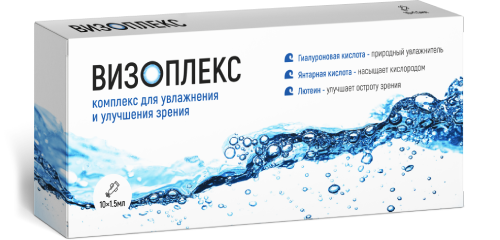
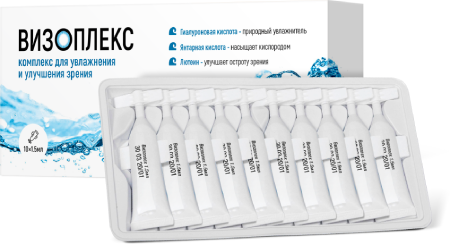
add photos

diff --git a/www/en/index.html b/www/en/index.html
@@ -1575,10 +1575,10 @@
       <div class="container">
         <h2 class="about__title title">О компании</h2><img class="about__logo" src="/img/svg/logo_big.svg" alt="Vitaliss"/>
         <div class="about__desc">
-          <p class="about__text">Наша миссия -  создавать товары для помощи людям в решении проблем со здоровьем. Это натуральные продукты, безопасность и качество которых проверяются на всех этапах производства* <br/>(*учитывайте индивидуальные особенности организма к конкретным ингредиентам).</p>
+          <p class="about__text">Наша миссия -  создавать товары для помощи людям в решении проблем со здоровьем. Это натуральные продукты, безопасность и качество которых проверяются на всех этапах производства*<br/>(*учитывайте индивидуальные особенности организма к конкретным ингредиентам).</p>
           <p class="about__text">Силы природы, научные инновации и знания лучших специалистов позволяют нам достигнуть максимального эффекта и пользы. Производим продукцию на современном оборудовании в соответствии с мировыми стандартами качества.</p>
           <p class="about__text">Мы гордимся тем, что с помощью продукции Vitaliss каждый день тысячи людей укрепляют свое здоровье и меняют жизнь к лучшему!</p>
-          <p class="about__text about__text--main">Мы заботимся о вас! С любовью, Vitaliss.</p>
+          <p class="about__text about__text--main">Мы заботимся о вас! С любовью, Vitaliss</p>
         </div>
       </div>
     </section>

diff --git a/www/index.html b/www/index.html
@@ -1575,10 +1575,10 @@
       <div class="container">
         <h2 class="about__title title">О компании</h2><img class="about__logo" src="/img/svg/logo_big.svg" alt="Vitaliss"/>
         <div class="about__desc">
-          <p class="about__text">Наша миссия -  создавать товары для помощи людям в решении проблем со здоровьем. Это натуральные продукты, безопасность и качество которых проверяются на всех этапах производства* <br/>(*учитывайте индивидуальные особенности организма к конкретным ингредиентам).</p>
+          <p class="about__text">Наша миссия -  создавать товары для помощи людям в решении проблем со здоровьем. Это натуральные продукты, безопасность и качество которых проверяются на всех этапах производства*<br/>(*учитывайте индивидуальные особенности организма к конкретным ингредиентам).</p>
           <p class="about__text">Силы природы, научные инновации и знания лучших специалистов позволяют нам достигнуть максимального эффекта и пользы. Производим продукцию на современном оборудовании в соответствии с мировыми стандартами качества.</p>
           <p class="about__text">Мы гордимся тем, что с помощью продукции Vitaliss каждый день тысячи людей укрепляют свое здоровье и меняют жизнь к лучшему!</p>
-          <p class="about__text about__text--main">Мы заботимся о вас! С любовью, Vitaliss.</p>
+          <p class="about__text about__text--main">Мы заботимся о вас! С любовью, Vitaliss</p>
         </div>
       </div>
     </section>

diff --git a/www/duo-c-p.html b/www/duo-c-p.html
@@ -51,13 +51,13 @@
           <div class="product-item__slider slider-prod">
             <div class="slider-prod__nav js-slider-product-nav">
               <div class="slider-prod__nav-item"><img src="/img/duo-c-p_b_1.png" alt="DUO C&amp;P"/></div>
-              <div class="slider-prod__nav-item"><img src="/img/duo-c-p_b_1.png" alt="DUO C&amp;P"/></div>
-              <div class="slider-prod__nav-item"><img src="/img/duo-c-p_b_1.png" alt="DUO C&amp;P"/></div>
+              <div class="slider-prod__nav-item"><img src="/img/duo-c-p_b_2.png" alt="DUO C&amp;P"/></div>
+              <div class="slider-prod__nav-item"><img src="/img/duo-c-p_b_3.png" alt="DUO C&amp;P"/></div>
             </div>
             <div class="slider-prod__for js-slider-product-for">
               <div class="slider-prod__for-item"><img src="/img/duo-c-p_b_1.png" alt="DUO C&amp;P"/></div>
-              <div class="slider-prod__for-item"><img src="/img/duo-c-p_b_1.png" alt="DUO C&amp;P"/></div>
-              <div class="slider-prod__for-item"><img src="/img/duo-c-p_b_1.png" alt="DUO C&amp;P"/></div>
+              <div class="slider-prod__for-item"><img src="/img/duo-c-p_b_2.png" alt="DUO C&amp;P"/></div>
+              <div class="slider-prod__for-item"><img src="/img/duo-c-p_b_3.png" alt="DUO C&amp;P"/></div>
             </div>
           </div>
           <div class="product-item__info">

diff --git a/www/en/duo-c-p.html b/www/en/duo-c-p.html
@@ -51,13 +51,13 @@
           <div class="product-item__slider slider-prod">
             <div class="slider-prod__nav js-slider-product-nav">
               <div class="slider-prod__nav-item"><img src="/img/duo-c-p_b_1.png" alt="DUO C&amp;P"/></div>
-              <div class="slider-prod__nav-item"><img src="/img/duo-c-p_b_1.png" alt="DUO C&amp;P"/></div>
-              <div class="slider-prod__nav-item"><img src="/img/duo-c-p_b_1.png" alt="DUO C&amp;P"/></div>
+              <div class="slider-prod__nav-item"><img src="/img/duo-c-p_b_2.png" alt="DUO C&amp;P"/></div>
+              <div class="slider-prod__nav-item"><img src="/img/duo-c-p_b_3.png" alt="DUO C&amp;P"/></div>
             </div>
             <div class="slider-prod__for js-slider-product-for">
               <div class="slider-prod__for-item"><img src="/img/duo-c-p_b_1.png" alt="DUO C&amp;P"/></div>
-              <div class="slider-prod__for-item"><img src="/img/duo-c-p_b_1.png" alt="DUO C&amp;P"/></div>
-              <div class="slider-prod__for-item"><img src="/img/duo-c-p_b_1.png" alt="DUO C&amp;P"/></div>
+              <div class="slider-prod__for-item"><img src="/img/duo-c-p_b_2.png" alt="DUO C&amp;P"/></div>
+              <div class="slider-prod__for-item"><img src="/img/duo-c-p_b_3.png" alt="DUO C&amp;P"/></div>
             </div>
           </div>
           <div class="product-item__info">

diff --git a/www/en/visoplex.html b/www/en/visoplex.html
@@ -51,13 +51,13 @@
           <div class="product-item__slider slider-prod">
             <div class="slider-prod__nav js-slider-product-nav">
               <div class="slider-prod__nav-item"><img src="/img/visolpex_b_1.png" alt="Visolpex"/></div>
-              <div class="slider-prod__nav-item"><img src="/img/visolpex_b_1.png" alt="Visolpex"/></div>
-              <div class="slider-prod__nav-item"><img src="/img/visolpex_b_1.png" alt="Visolpex"/></div>
+              <div class="slider-prod__nav-item"><img src="/img/visolpex_b_2.png" alt="Visolpex"/></div>
+              <div class="slider-prod__nav-item"><img src="/img/visolpex_b_3.png" alt="Visolpex"/></div>
             </div>
             <div class="slider-prod__for js-slider-product-for">
               <div class="slider-prod__for-item"><img src="/img/visolpex_b_1.png" alt="Visolpex"/></div>
-              <div class="slider-prod__for-item"><img src="/img/visolpex_b_1.png" alt="Visolpex"/></div>
-              <div class="slider-prod__for-item"><img src="/img/visolpex_b_1.png" alt="Visolpex"/></div>
+              <div class="slider-prod__for-item"><img src="/img/visolpex_b_2.png" alt="Visolpex"/></div>
+              <div class="slider-prod__for-item"><img src="/img/visolpex_b_3.png" alt="Visolpex"/></div>
             </div>
           </div>
           <div class="product-item__info">

diff --git a/www/visoplex.html b/www/visoplex.html
@@ -51,13 +51,13 @@
           <div class="product-item__slider slider-prod">
             <div class="slider-prod__nav js-slider-product-nav">
               <div class="slider-prod__nav-item"><img src="/img/visolpex_b_1.png" alt="Visolpex"/></div>
-              <div class="slider-prod__nav-item"><img src="/img/visolpex_b_1.png" alt="Visolpex"/></div>
-              <div class="slider-prod__nav-item"><img src="/img/visolpex_b_1.png" alt="Visolpex"/></div>
+              <div class="slider-prod__nav-item"><img src="/img/visolpex_b_2.png" alt="Visolpex"/></div>
+              <div class="slider-prod__nav-item"><img src="/img/visolpex_b_3.png" alt="Visolpex"/></div>
             </div>
             <div class="slider-prod__for js-slider-product-for">
               <div class="slider-prod__for-item"><img src="/img/visolpex_b_1.png" alt="Visolpex"/></div>
-              <div class="slider-prod__for-item"><img src="/img/visolpex_b_1.png" alt="Visolpex"/></div>
-              <div class="slider-prod__for-item"><img src="/img/visolpex_b_1.png" alt="Visolpex"/></div>
+              <div class="slider-prod__for-item"><img src="/img/visolpex_b_2.png" alt="Visolpex"/></div>
+              <div class="slider-prod__for-item"><img src="/img/visolpex_b_3.png" alt="Visolpex"/></div>
             </div>
           </div>
           <div class="product-item__info">

diff --git a/www/ash-be-forte.html b/www/ash-be-forte.html
@@ -52,12 +52,12 @@
             <div class="slider-prod__nav js-slider-product-nav">
               <div class="slider-prod__nav-item"><img src="/img/ash-be-forte_b_1.png" alt="Ash be Forte"/></div>
               <div class="slider-prod__nav-item"><img src="/img/ash-be-forte_b_2.png" alt="Ash be Forte"/></div>
-              <div class="slider-prod__nav-item"><img src="/img/ash-be-forte_b_1.png" alt="Ash be Forte"/></div>
+              <div class="slider-prod__nav-item"><img src="/img/ash-be-forte_b_3.png" alt="Ash be Forte"/></div>
             </div>
             <div class="slider-prod__for js-slider-product-for">
               <div class="slider-prod__for-item"><img src="/img/ash-be-forte_b_1.png" alt="Ash be Forte"/></div>
               <div class="slider-prod__for-item"><img src="/img/ash-be-forte_b_2.png" alt="Ash be Forte"/></div>
-              <div class="slider-prod__for-item"><img src="/img/ash-be-forte_b_1.png" alt="Ash be Forte"/></div>
+              <div class="slider-prod__for-item"><img src="/img/ash-be-forte_b_3.png" alt="Ash be Forte"/></div>
             </div>
           </div>
           <div class="product-item__info">

diff --git a/www/en/ash-be-forte.html b/www/en/ash-be-forte.html
@@ -52,12 +52,12 @@
             <div class="slider-prod__nav js-slider-product-nav">
               <div class="slider-prod__nav-item"><img src="/img/ash-be-forte_b_1.png" alt="Ash be Forte"/></div>
               <div class="slider-prod__nav-item"><img src="/img/ash-be-forte_b_2.png" alt="Ash be Forte"/></div>
-              <div class="slider-prod__nav-item"><img src="/img/ash-be-forte_b_1.png" alt="Ash be Forte"/></div>
+              <div class="slider-prod__nav-item"><img src="/img/ash-be-forte_b_3.png" alt="Ash be Forte"/></div>
             </div>
             <div class="slider-prod__for js-slider-product-for">
               <div class="slider-prod__for-item"><img src="/img/ash-be-forte_b_1.png" alt="Ash be Forte"/></div>
               <div class="slider-prod__for-item"><img src="/img/ash-be-forte_b_2.png" alt="Ash be Forte"/></div>
-              <div class="slider-prod__for-item"><img src="/img/ash-be-forte_b_1.png" alt="Ash be Forte"/></div>
+              <div class="slider-prod__for-item"><img src="/img/ash-be-forte_b_3.png" alt="Ash be Forte"/></div>
             </div>
           </div>
           <div class="product-item__info">
